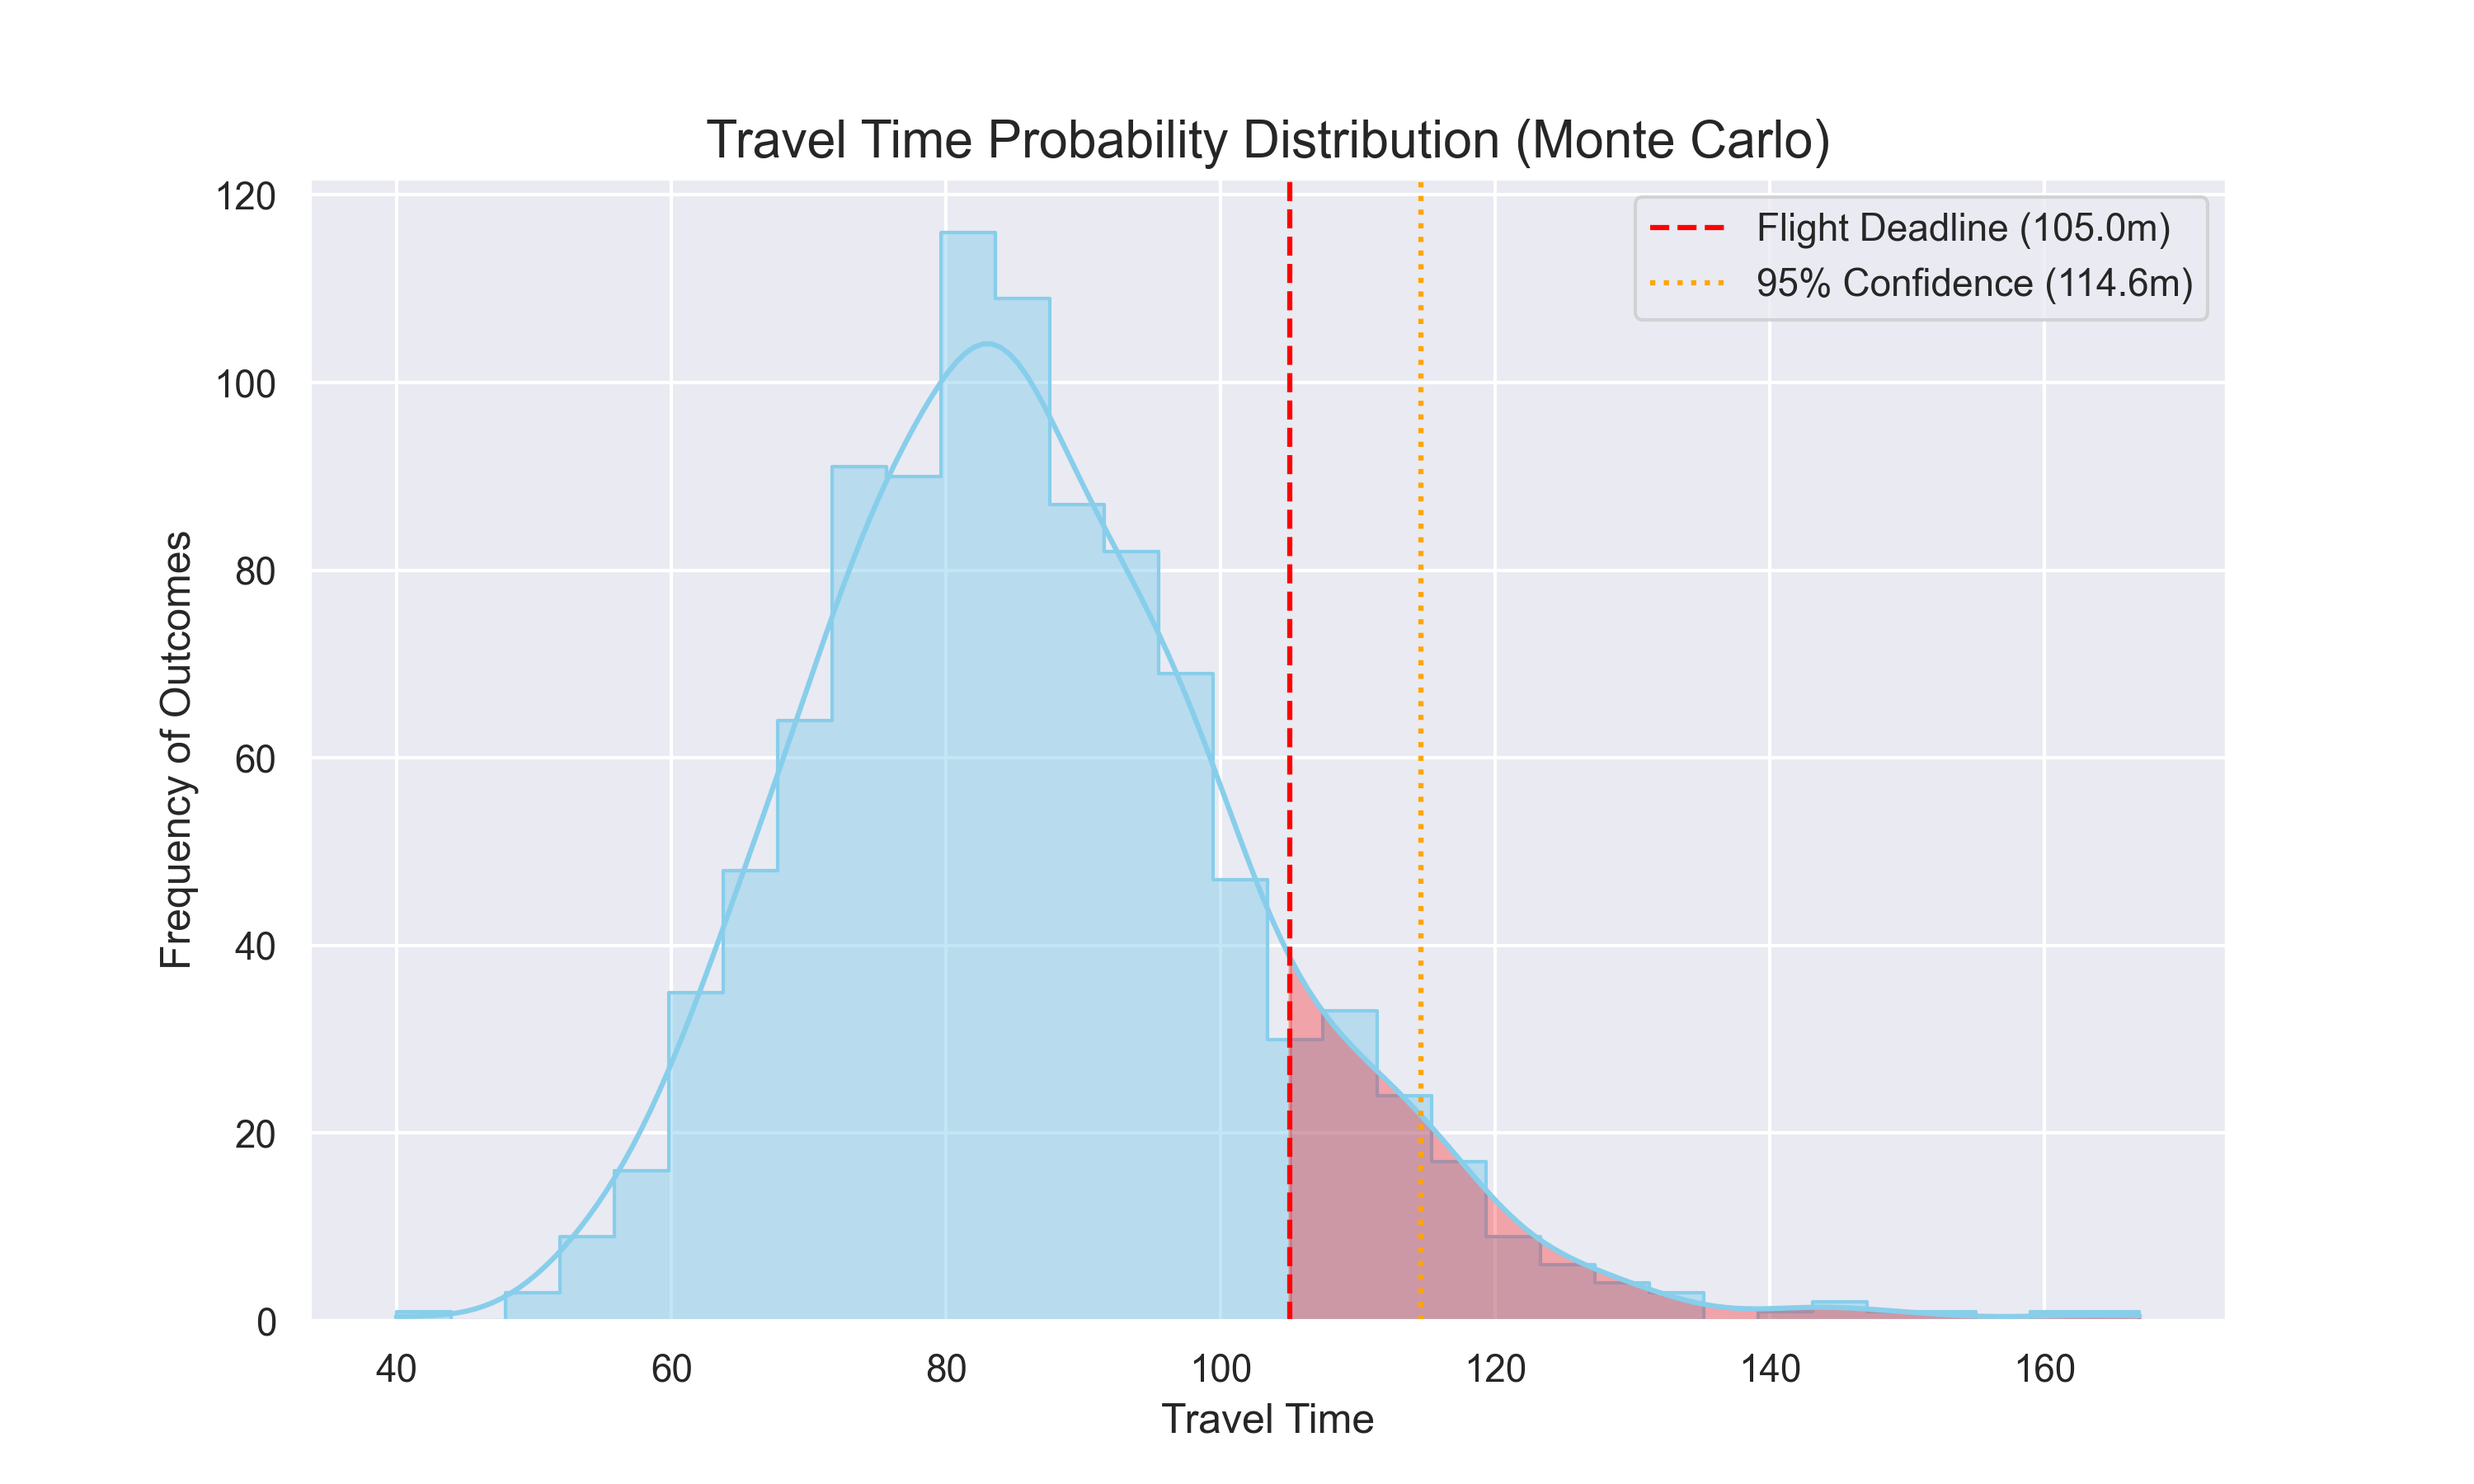
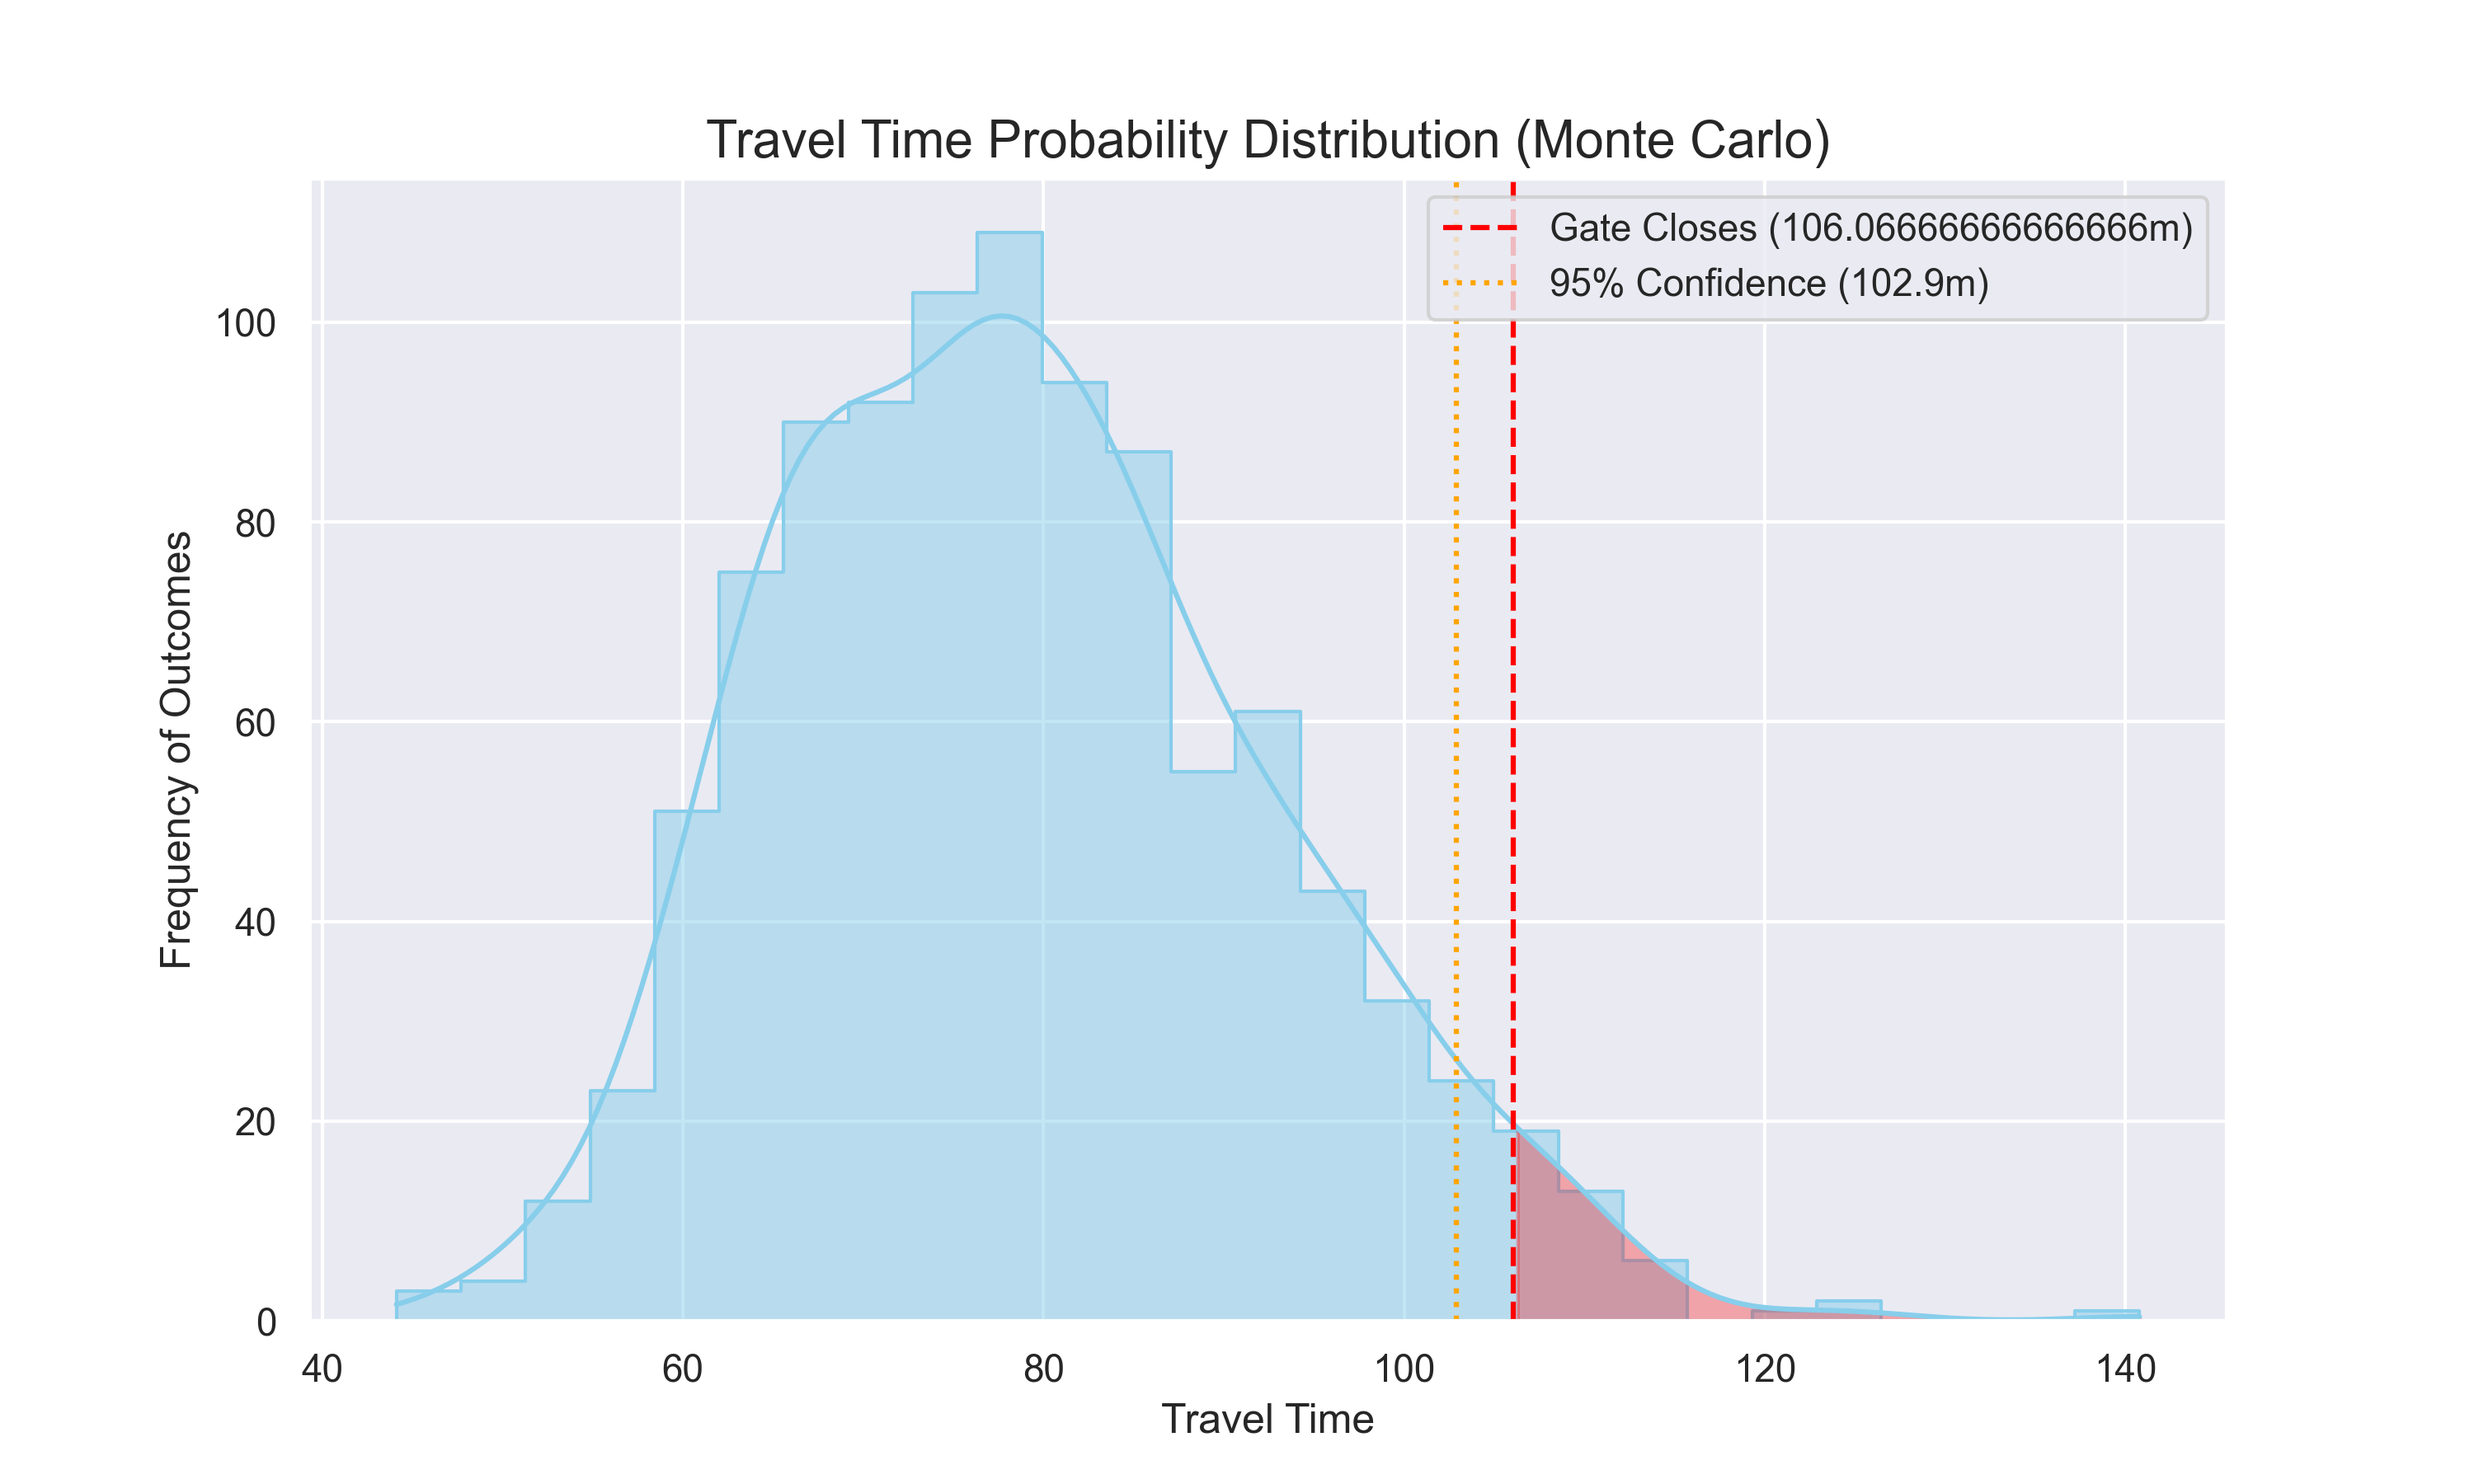
fix: resolve numpy shape mismatch and finalize backwards solver logic

diff --git a/main.py b/main.py
@@ -1,4 +1,5 @@
 import sys
+import time
 from traffic_engine import TrafficEngine
 from weather_engine import WeatherEngine
 from risk_engine import RiskEngine
@@ -44,50 +45,68 @@ def run_silent_assessment(origin, destination, departure_epoch, flight_epoch, ha
             if key in destination.upper(): target_airport = key
 
         # Low iterations (500) for faster search performance.
-        airport_times = airport.get_total_airport_time(target_airport, arrival_at_airport, has_bags, is_precheck, iterations=500)
+        airport_times = airport.get_total_airport_time(target_airport, arrival_at_airport, has_bags, is_precheck, iterations=1000)
 
         # Return Probability.
         report = risk.evaluate_trip(traffic_data, weather_report, airport_times, total_buffer_mins)
         return report['success_probability']
-    except:
+    except Exception as e:
+        # If the API fails, print why.
+        print(f"\033[91m[!] Silent Assessment Failed: {e}\033[0m")
         return 0.0
 
 def find_optimal_departure(origin, destination, flight_time_epoch, has_bags, is_precheck):
     # Searches the timeline for the Drop-Dead and Certainty windows.
-    print(f"\n\033[94m[*] Analyzing timeline for flight at {datetime.fromtimestamp(flight_time_epoch).strftime('%I:%M %p')}...\033[0m")
+    print(f"\n\033[94m[*] Analyzing timeline for flight with gate closing at {datetime.fromtimestamp(flight_time_epoch).strftime('%I:%M %p')}...\033[0m")
     now = int(datetime.now().timestamp())
+    
     drop_dead_time = None
     certainty_time = None
+    highest_prob_seen = 0.0
     
-    # Scan from 45 mins before gate closure up to 6 hours before (5-min steps).
-    for mins_before in range(45, 360, 5):
+    for mins_before in range(45, 360, 15):
         test_dep = flight_time_epoch - (mins_before * 60)
         
+        # If the scanner tries to check a time in the past, force it to check 'now' instead.
+        is_past = False
         if test_dep < now:
-            continue
+            test_dep = now
+            is_past = True 
             
+        # Pause for 0.1s to prevent API connection errors.
+        time.sleep(0.1)
+        
         prob = run_silent_assessment(origin, destination, test_dep, flight_time_epoch, has_bags, is_precheck)
         
-        # Capture Drop-Dead Time (Latest moment success is > 5%).
-        if drop_dead_time is None and prob > 5.0:
+        # Track the best probability found so far.
+        if prob > highest_prob_seen:
+            highest_prob_seen = prob
+
+        # Capture Drop-Dead Time (> 10%).
+        if drop_dead_time is None and prob > 10.0:
             drop_dead_time = test_dep
-            print(f"    Drop-Dead Moment captured: {datetime.fromtimestamp(drop_dead_time).strftime('%I:%M %p')}")
 
-        # Capture Certainty Time (Latest moment success hits 90%+).
-        if certainty_time is None and prob >= 90.0:
+        # Capture Certainty Time (> 95%).
+        if certainty_time is None and prob >= 95.0:
             certainty_time = test_dep
-            print(f"    Certainty Window captured: {datetime.fromtimestamp(certainty_time).strftime('%I:%M %p')}")
-            break # Found the latest safe departure.
+            print(f"    [✓] Certainty Window: {datetime.fromtimestamp(certainty_time).strftime('%I:%M %p')}")
+            break 
 
-    # If the simulation is so safe that even leaving late has 100% success:
+        
+        # If we just checked 'now', we can't look further back. Stop scanning.
+        if is_past:
+            break
+
+    # Reporting. 
     if certainty_time is None:
-        certainty_time = flight_time_epoch - (150 * 60) # Default: 2.5 hrs before.
+        print(f"    \033[93m[!] Warning: 95% Certainty unreachable. Max possible: {highest_prob_seen}%\033[0m")
+        
     if drop_dead_time is None:
-        drop_dead_time = flight_time_epoch - (75 * 60)  # Default: 1 hr 15 mins before.
+        print(f"    \033[91m[!] Alert: No viable 'Drop-Dead' window found.\033[0m")
             
     return certainty_time, drop_dead_time
 
-def run_assessment(origin, destination, departure_time, flight_time, has_bags, is_precheck, safe_time=None, dead_time=None):
+def run_assessment(origin, destination, departure_time, flight_time, has_bags, is_precheck, safe_time=None, dead_time=None, gate_deadline=None):
     # The full reporting engine with visualization and dashboard output.
     buffer_mins = (flight_time - departure_time) / 60
     
@@ -140,9 +159,9 @@ def run_assessment(origin, destination, departure_time, flight_time, has_bags, i
 
         # Risk Analysis.
         final_report = risk.evaluate_trip(traffic_data, weather_report, airport_processing_time, buffer_mins)
-
+        deadline_to_show = gate_deadline if gate_deadline else flight_time
         # Visualization and Dashboard.
-        display_dashboard(origin, destination, buffer_mins, final_report, departure_time, safe_time, dead_time)
+        display_dashboard(origin, destination, buffer_mins, final_report, departure_time, safe_time, dead_time, deadline_to_show)
 
         print(f"\n\033[96m[*] Rendering Risk Profile Visualization...\033[0m")
         viz = Visualizer()
@@ -155,24 +174,23 @@ def run_assessment(origin, destination, departure_time, flight_time, has_bags, i
     except Exception as e:
         print(f"\n\033[91m[!] CRITICAL ERROR: {e}\033[0m")
 
-def display_dashboard(origin, dest, buffer, report, departure_time, safe_time, dead_time):
+def display_dashboard(origin, dest, buffer, report, departure_time, safe_time, dead_time, gate_deadline):
     # Prints the final data-driven summary to the terminal.
     readable_time = datetime.fromtimestamp(departure_time).strftime('%I:%M %p')
 
     # Format the advice times
-    safe_str = datetime.fromtimestamp(safe_time).strftime('%I:%M %p') if safe_time else "N/A"
-    dead_str = datetime.fromtimestamp(dead_time).strftime('%I:%M %p') if dead_time else "N/A"
+    safe_str = datetime.fromtimestamp(safe_time).strftime('%I:%M %p') if safe_time else "UNREACHABLE"
+    dead_str = datetime.fromtimestamp(dead_time).strftime('%I:%M %p') if dead_time else "PAST DEADLINE"
 
     RESET, BOLD, GREEN, YELLOW, RED = "\033[0m", "\033[1m", "\033[92m", "\033[93m", "\033[91m"
     color = RED if report['risk'] in ["HIGH", "CRITICAL"] else GREEN
     
     print("\n" + "="*60)
-    print(f"{BOLD}FLIGHT-RISK TERMINAL v2.0 (INTELLIGENT){RESET}".center(68))
+    print(f"{BOLD}FLIGHT-RISK TERMINAL v2.0 {RESET}".center(68))
     print("="*60)
     print(f" ROUTE:     {origin} -> {dest}")
     print(f" DEPARTURE: {readable_time}")
-    print(f" GATE CLOSES: {datetime.fromtimestamp(flight_time).strftime('%I:%M %p')} (Deadline)") 
-    
+    print(f" GATE CLOSES: {datetime.fromtimestamp(gate_deadline).strftime('%I:%M %p')} (Deadline)")    
     print(f"{BOLD}STATISTICAL INSIGHTS:{RESET}")
     print(f"  - Weather Multiplier: {report['multiplier']}x")
     print(f"  - Avg Total Time:     {report['avg_eta']} mins")
@@ -189,14 +207,17 @@ def display_dashboard(origin, dest, buffer, report, departure_time, safe_time, d
     
     print("-" * 60)
     print(f"{BOLD}LOGISTICS ADVICE:{RESET}")
-    print(f"  - {GREEN}Certainty Time:  {safe_str} (95% Probability){RESET}")
-    print(f"  - {RED}Drop-Dead Time:  {dead_str} (<1% Probability){RESET}")
+    cert_color = GREEN if safe_time else YELLOW
+    print(f"  - {cert_color}Certainty Time:  {safe_str} (95% Probability){RESET}")
+    
+    dead_color = RED if dead_time else BOLD + RED
+    print(f"  - {dead_color}Drop-Dead Time:  {dead_str} (<10% Probability){RESET}")
     print("-" * 60)
     
     print(f" FINAL STATUS: {BOLD}{color}{report['risk']}{RESET} RISK")
     print("="*60 + "\n")
 
-# Interactive CLI.
+
 # Interactive CLI.
 if __name__ == "__main__":
     print("\n\033[1m" + "FLIGHTRISK: PREDICTIVE LOGISTICS ENGINE" + "\033[0m")
@@ -252,4 +273,4 @@ if __name__ == "__main__":
     safe_dep, dead_dep = find_optimal_departure(user_origin, user_dest, flight_time, has_bags, is_precheck)
     
     # Run the assessment.
-    run_assessment(user_origin, user_dest, eval_departure, flight_time, has_bags, is_precheck, safe_time=safe_dep, dead_time=dead_dep)
+    run_assessment(user_origin, user_dest, eval_departure, flight_time, has_bags, is_precheck, safe_dep, dead_dep, flight_time)

diff --git a/risk_engine.py b/risk_engine.py
@@ -94,6 +94,8 @@ class RiskEngine:
         avg_time = df.mean()
         p95_time = df.quantile(0.95)
         std_dev = df.std()
+        if std_dev < 2.0:
+            std_dev = 2.0 # Force variance floor to prevent bell curve from being vertical line.
         success_prob = (df < buffer_mins).mean() * 100
         
         # Calculate a safety buffer 'remaining' based on the 95% safety margin
